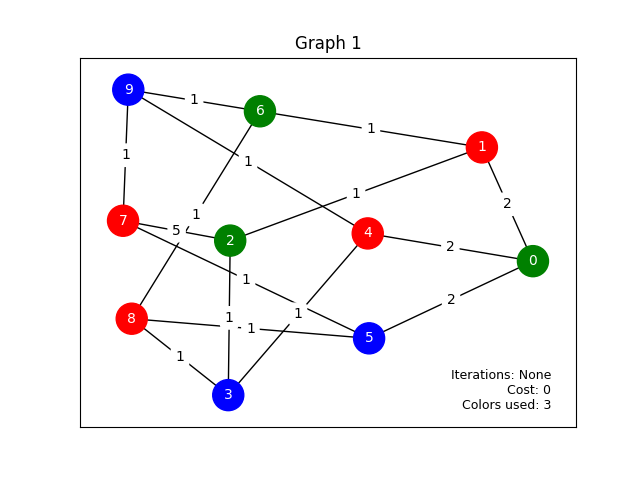
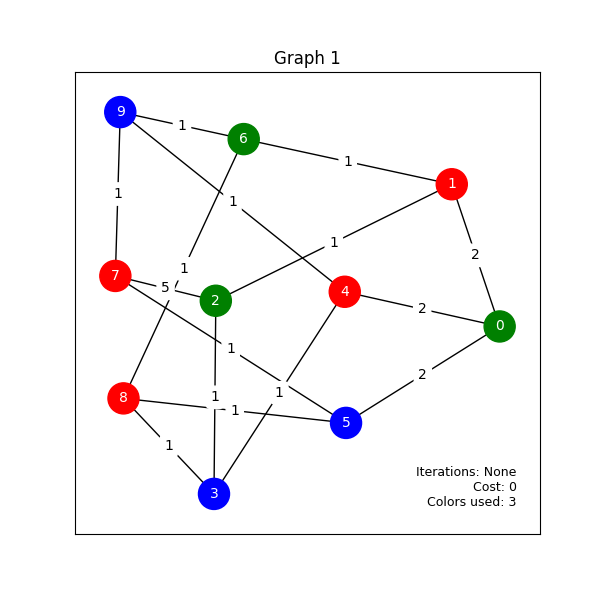
added comments and edited read me

diff --git a/src/analysis.py b/src/analysis.py
@@ -3,23 +3,24 @@ import matplotlib.pyplot as plt
 import matplotlib.animation as animation
 
 from graph import load_color_map, load_json_graph
-from algorithms import greedy, animate_greedy
+from algorithms import naive_greedy, animate_naive_greedy
 from utils import calc_cost
 
-def draw_graph(graph, pos, graph_name, iteration_count):
+def draw_graph(graph, pos, graph_name):
     '''
-    Draw the graph using Graphviz on the given axis
+    Draw graph on a given axis
     '''
+    fig, ax = plt.subplots(figsize=(6, 6))
 
     vertex_colors = [color_map.get(str(graph.nodes[node].get('color', 0)), 'gray') for node in graph.nodes]
 
     edge_weights = nx.get_edge_attributes(graph, 'weight')
 
-    nx.draw_networkx(graph, pos, with_labels=True, node_color=vertex_colors, node_size=500, edge_color='black', font_color='white', font_size=10)
-    nx.draw_networkx_edge_labels(graph, pos, edge_labels=edge_weights, rotate=False)
+    nx.draw_networkx(graph, pos, with_labels=True, node_color=vertex_colors, node_size=500, edge_color='black', font_color='white', font_size=10, ax=ax)
+    nx.draw_networkx_edge_labels(graph, pos, edge_labels=edge_weights, rotate=False, ax=ax)
 
-    plt.text(
-        0.95, 0.1, f'Iterations: {iteration_count}\nCost: {calc_cost(graph)}\nColors used: {len(set(nx.get_node_attributes(graph, "color").values()))}', 
+    ax.text(
+        0.95, 0.1, f'Iterations: None\nCost: {calc_cost(graph)}\nColors used: {len(set(nx.get_node_attributes(graph, "color").values()))}', 
         horizontalalignment='right',
         verticalalignment='center', 
         transform=plt.gca().transAxes,
@@ -27,15 +28,20 @@ def draw_graph(graph, pos, graph_name, iteration_count):
         bbox=dict(facecolor='white', alpha=0.5, edgecolor='none')
         )
 
-    plt.title(graph_name)
+    ax.set_title(graph_name)
+
     plt.savefig(graph_name)
     plt.show()
 
-def animate(graph, color_set_size, iterations, pos, graph_name):
+def animate(graph, color_set_size, iterations, pos, graph_name, algo):
+    """
+    Animate graph coloring for a specific optimisation algo
+    """
     fig, ax = plt.subplots(figsize=(6, 6))
 
     def update(frame_data):
         graph, cur_cost, iteration_count = frame_data
+
         ax.clear()
 
         vertex_colors = [color_map.get(str(graph.nodes[node].get('color', 0)), 'gray') for node in graph.nodes]
@@ -55,10 +61,11 @@ def animate(graph, color_set_size, iterations, pos, graph_name):
 
         ax.set_title(graph_name)
 
-    # Create an animation using the greedy function as a generator
-    ani = animation.FuncAnimation(
-        fig, update, frames=animate_greedy(graph, color_set_size, iterations), interval=1000, repeat=False
-    )
+    if algo == 'naive greedy':
+        # Create an animation
+        ani = animation.FuncAnimation(
+            fig, update, frames=animate_naive_greedy(graph, color_set_size, iterations), interval=500, repeat=False
+        )
     plt.show()
 
 if __name__ == '__main__':
@@ -83,9 +90,9 @@ if __name__ == '__main__':
     max_iterations = 10
     color_set_size = 3
 
-    # Apply optimising algorithm
-    # graph_1_greedy, cost, iterations_taken = greedy(graph_1, color_set_size, max_iterations)
-    # draw_graph(graph_1_greedy, pos, graph_1_name, None)
+    # Apply optimisation algo
+    # graph_1_naive_greedy, cost, iterations_taken = naive_greedy(graph_1, color_set_size, max_iterations)
+    # draw_graph(graph_1_naive_greedy, pos, graph_1_name)
 
-    # Animation
-    animate(graph_1, color_set_size, max_iterations, pos, graph_1_name)
+    # Animate optimisation algo
+    animate(graph_1, color_set_size, max_iterations, pos, graph_1_name, 'naive greedy')

diff --git a/src/algorithms.py b/src/algorithms.py
@@ -1,14 +1,14 @@
 from utils import calc_cost, calc_delta_cost
 
-def greedy(graph, color_set_size, iterations):
+def naive_greedy(graph, color_set_size, iterations):
     # Initialise cost and color set
     cur_cost = calc_cost(graph)
     color_set = list(range(color_set_size))
     itertions_taken = 0
     
-    # Greedy algo for loop based on fixed no. of iterations
+    # Naive greedy algo, for loop based on fixed no. of iterations
     for i in range(iterations):
-        # Initialise choice combination, determined by largest cost reduction
+        # Determine choice combination by largest cost reduction
         vertex_choice = None
         color_choice = None
         max_cost_reduction = 0
@@ -37,19 +37,15 @@ def greedy(graph, color_set_size, iterations):
         # Recoloring 
         graph.nodes[vertex_choice]['color'] = color_choice
         cur_cost -= max_cost_reduction
-        iterations_taken = i + 1
-
-        # Plot graph to show recoloring 
-        # draw_graph(graph, pos, graph_name, iterations_taken)
 
     return graph, cur_cost, itertions_taken
 
-def animate_greedy(graph, color_set_size, iterations):
+def animate_naive_greedy(graph, color_set_size, iterations):
     cur_cost = calc_cost(graph)
     color_set = list(range(color_set_size))
     iterations_taken = 0
 
-    yield graph, cur_cost, iterations_taken # yield initial state
+    yield graph, cur_cost, iterations_taken # Yield initial state
 
     for i in range(iterations):
         vertex_choice = None
@@ -75,8 +71,7 @@ def animate_greedy(graph, color_set_size, iterations):
         cur_cost -= max_cost_reduction
         iterations_taken = i + 1
 
-        yield graph, cur_cost, iterations_taken # yield updated state
-
+        yield graph, cur_cost, iterations_taken # Yield updated state
 
 def reluctant(graph, color_set_size, iterations):
     pass

diff --git a/src/utils.py b/src/utils.py
@@ -7,7 +7,7 @@ def calc_cost(graph):
     vertex_colors = nx.get_node_attributes(graph, 'color')
     
     for vertex_1, vertex_2, edge_data in graph.edges(data=True):
-        if vertex_colors.get(vertex_1) == vertex_colors.get(vertex_2):  # Check if connected vertices have the same color
+        if vertex_colors.get(vertex_1) == vertex_colors.get(vertex_2): # Check if connected vertices have the same color
             cost += edge_data.get('weight')
 
     return cost

diff --git a/src/graph.py b/src/graph.py
@@ -22,7 +22,7 @@ def load_json_graph(json_file):
 
 def load_color_map(color_map_file):
     '''
-    Load the color map from a JSON file.
+    Load the color map from a JSON file
     '''
     with open(color_map_file, 'r') as f:
         data = json.load(f)
